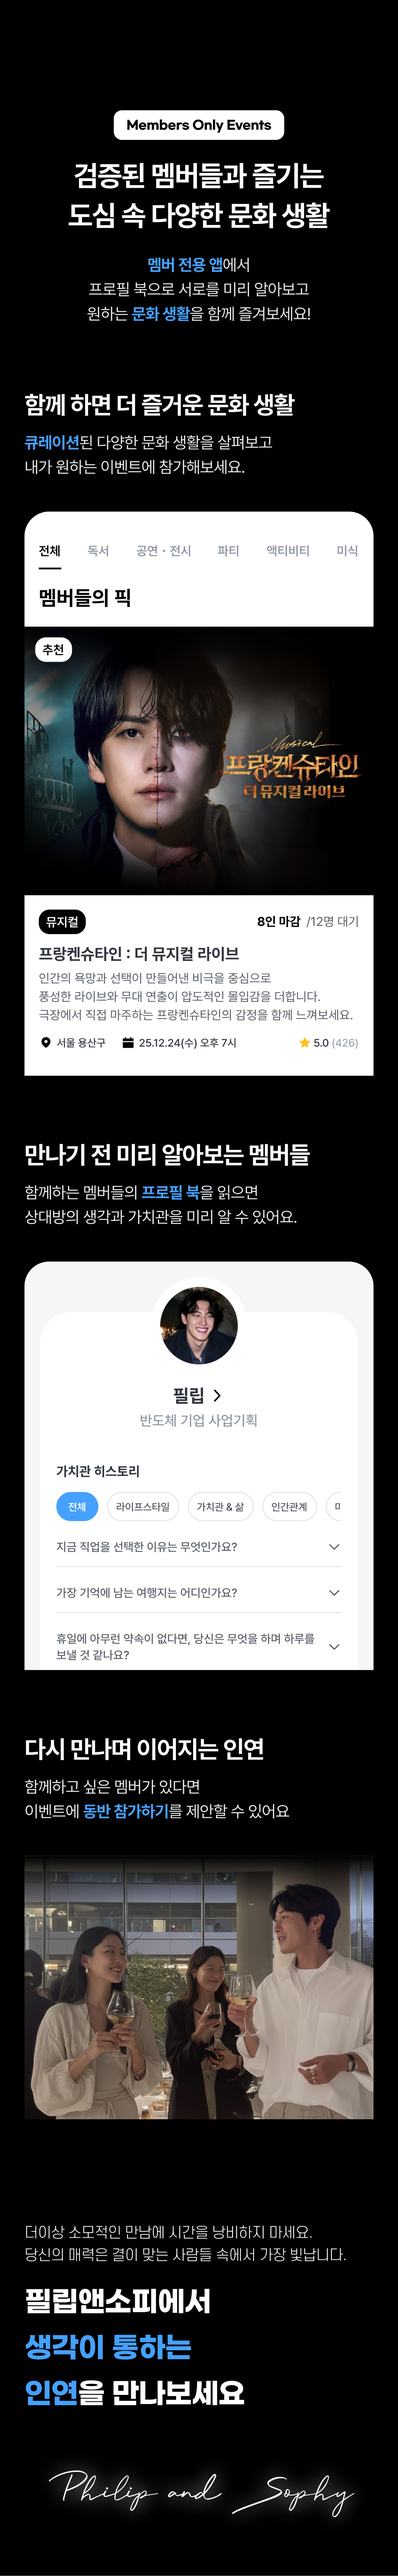
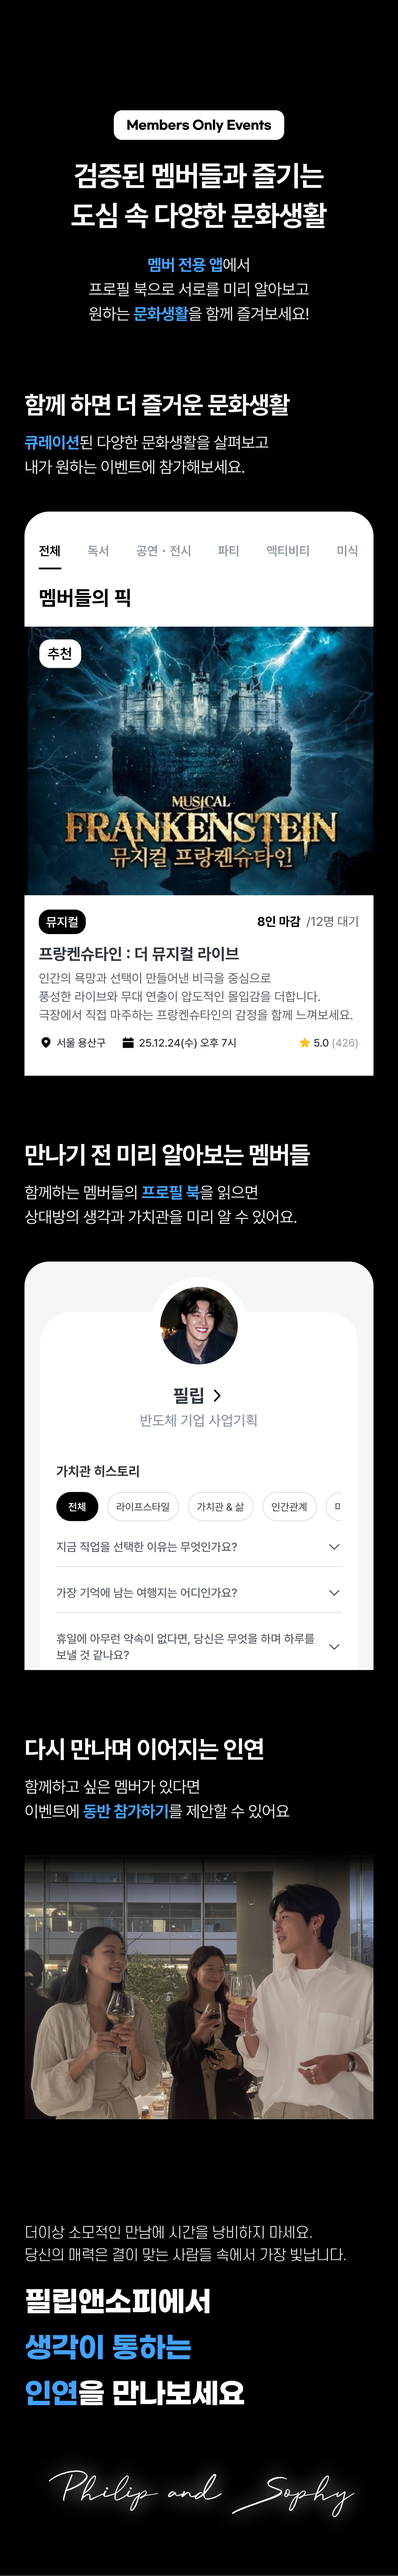
fix: 브랜드 명칭 통일 및 SEO 업데이트
- 클로징 파티 → 웰컴 파티
- 독서소셜클럽 → 소셜클럽 (띄어쓰기 통일)
- 호텔 라운지바 → 분위기 좋은 공간
- 저녁 7시 → 오후 7시
- 재참여 신청 페이지 헤더 텍스트 변경
- SEO description 브랜드 메시지 정렬 (문화생활 강조)
- 후기 및 멤버십 이미지 업데이트

🤖 Generated with [Claude Code](https://claude.com/claude-code)

diff --git a/src/features/application/constants/questions.ts b/src/features/application/constants/questions.ts
@@ -55,7 +55,7 @@ export const COHORT_INFO = {
     timeline: [
         { date: '1/3 오후 2시', event: '온라인 OT' },
         { date: '1/4~1/16', event: '2주 독서 프로그램' },
-        { date: '1/17 저녁 7시', event: '웰컴 파티' },
+        { date: '1/17 오후 7시', event: '웰컴 파티' },
     ],
 };
 
@@ -64,7 +64,7 @@ export const QUESTIONS: Record<string, Question> = {
     'intro': {
         id: 'intro',
         type: 'intro',
-        title: '승인제 독서소셜클럽\n필립앤소피에 오신 것을 환영합니다.',
+        title: '승인제 소셜클럽\n필립앤소피에 오신 것을 환영합니다.',
         description: `${COHORT_INFO.number}기 멤버십 타임라인은 다음과 같습니다.\n📍 ${COHORT_INFO.timeline[0].date}: ${COHORT_INFO.timeline[0].event}\n📍 ${COHORT_INFO.timeline[1].date} : ${COHORT_INFO.timeline[1].event}\n📍 ${COHORT_INFO.timeline[2].date}: ${COHORT_INFO.timeline[2].event}\n\n위 일정에 참여 가능하시면\n"다음" 을 눌러주세요.`,
         buttonText: '다음',
         nextQuestionId: 'membership_status',
@@ -165,7 +165,7 @@ export const QUESTIONS: Record<string, Question> = {
     'personal_info_existing': {
         id: 'personal_info_existing',
         type: 'composite',
-        title: '기본 정보를 입력해주세요.',
+        title: '다시 만나게 되어 반가워요 👋\n아래 정보를 작성해주시면 바로 연락드릴게요!',
         fields: [
             { id: 'name', type: 'text', label: '이름', placeholder: '홍길동' },
             { id: 'phone', type: 'phone', label: '연락처', placeholder: '010-0000-0000' },

diff --git a/src/constants/seo.ts b/src/constants/seo.ts
@@ -10,7 +10,7 @@ export const ORGANIZATION_SCHEMA = {
   "@type": "Organization",
   "name": "Philip & Sophy",
   "alternateName": "필립앤소피",
-  "description": "25-40세 직장인 전문직을 위한 승인제 독서소셜클럽",
+  "description": "검증된 사람들과 함께 문화생활을 즐기는 승인제 소셜클럽",
   "url": "https://www.philipandsophy.kr/",
   "logo": "https://www.philipandsophy.kr/image/app-icon.webp",
   "sameAs": [
@@ -37,7 +37,7 @@ export const MEMBERSHIP_SCHEMA = {
     "@type": "Organization",
     "name": "Philip & Sophy"
   },
-  "description": "승인제 독서소셜클럽 멤버십 - 품격있는 만남과 깊이있는 대화",
+  "description": "검증된 사람들과 다양한 문화생활을 즐기는 승인제 멤버십",
   "membershipType": "승인제",
   "areaServed": "서울"
 } as const;
@@ -69,11 +69,11 @@ export const PARTY_REVIEWS_SCHEMA = {
   "@type": "Review",
   "itemReviewed": {
     "@type": "Event",
-    "name": "필립앤소피 독서 파티",
+    "name": "필립앤소피 웰컴 파티",
     "organizer": {
       "@type": "Organization",
       "name": "Philip & Sophy"
     }
   },
-  "description": "필립앤소피 독서소셜클럽 참여자들의 실제 후기와 경험담"
+  "description": "필립앤소피 소셜클럽 참여자들의 실제 후기와 경험담"
 } as const;

diff --git a/src/features/application/components/PrivacyPolicyModal.tsx b/src/features/application/components/PrivacyPolicyModal.tsx
@@ -54,7 +54,7 @@ export function PrivacyPolicyModal({ open, onOpenChange }: PrivacyPolicyModalPro
                                 <ul className="list-disc list-inside ml-4 mt-1 text-gray-400">
                                     <li>승인제 멤버십 가입 심사 및 관리</li>
                                     <li>독서 프로그램 운영 및 멤버 간 커뮤니케이션 지원</li>
-                                    <li>오프라인 클로징 파티 및 이벤트 운영</li>
+                                    <li>오프라인 웰컴 파티 및 이벤트 운영</li>
                                     <li>서비스 이용에 따른 본인확인, 개인식별</li>
                                 </ul>
                             </li>

diff --git a/public/privacy-policy.html b/public/privacy-policy.html
@@ -25,7 +25,7 @@
                 <ul>
                     <li>승인제 멤버십 가입 심사 및 관리</li>
                     <li>독서 프로그램 운영 및 멤버 간 커뮤니케이션 지원</li>
-                    <li>오프라인 클로징 파티 및 이벤트 운영</li>
+                    <li>오프라인 웰컴 파티 및 이벤트 운영</li>
                     <li>서비스 이용에 따른 본인확인, 개인식별</li>
                 </ul>
             </li>

diff --git a/src/features/onboarding/constants.ts b/src/features/onboarding/constants.ts
@@ -17,7 +17,7 @@ export const ONBOARDING_STEPS = [
     id: 3,
     imageSrc: '/image/onboarding/enter3.webp',
     alt: '온보딩 단계 3',
-    title: '분위기 좋은\n호텔 라운지바에서\n클로징 파티를 즐겨요!',
+    title: '분위기 좋은 공간에서\n웰컴 파티를 즐겨요!',
     buttonText: '필립앤소피 참여하기',
   },
 ] as const;

diff --git a/src/app/app/layout.tsx b/src/app/app/layout.tsx
@@ -8,7 +8,7 @@ export const viewport: Viewport = {
 
 // Metadata는 서버 컴포넌트에서만 사용 가능
 export const metadata: Metadata = {
-  title: '필립앤소피 | 승인제 독서소셜클럽',
+  title: '필립앤소피 | 승인제 소셜클럽',
   description: '깊이 있는 대화가 설레는 만남으로',
   robots: {
     index: false,
